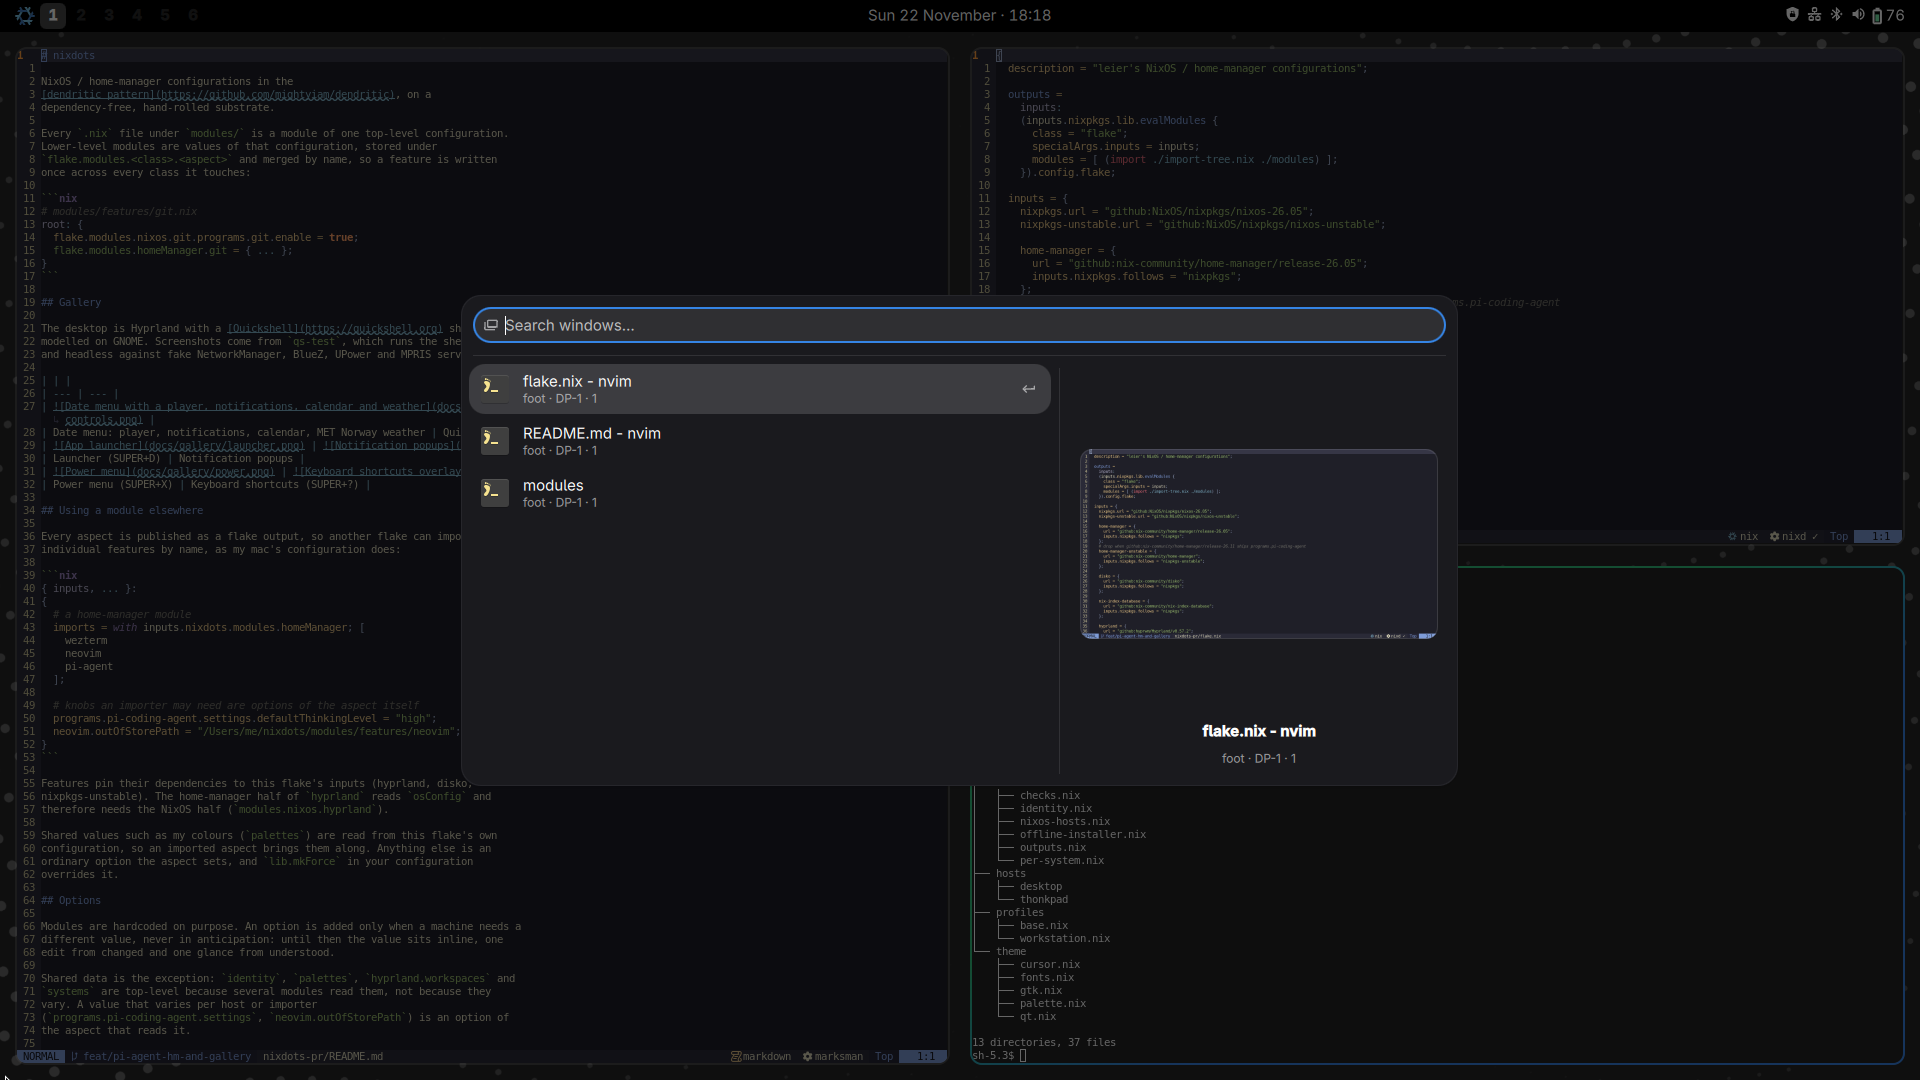
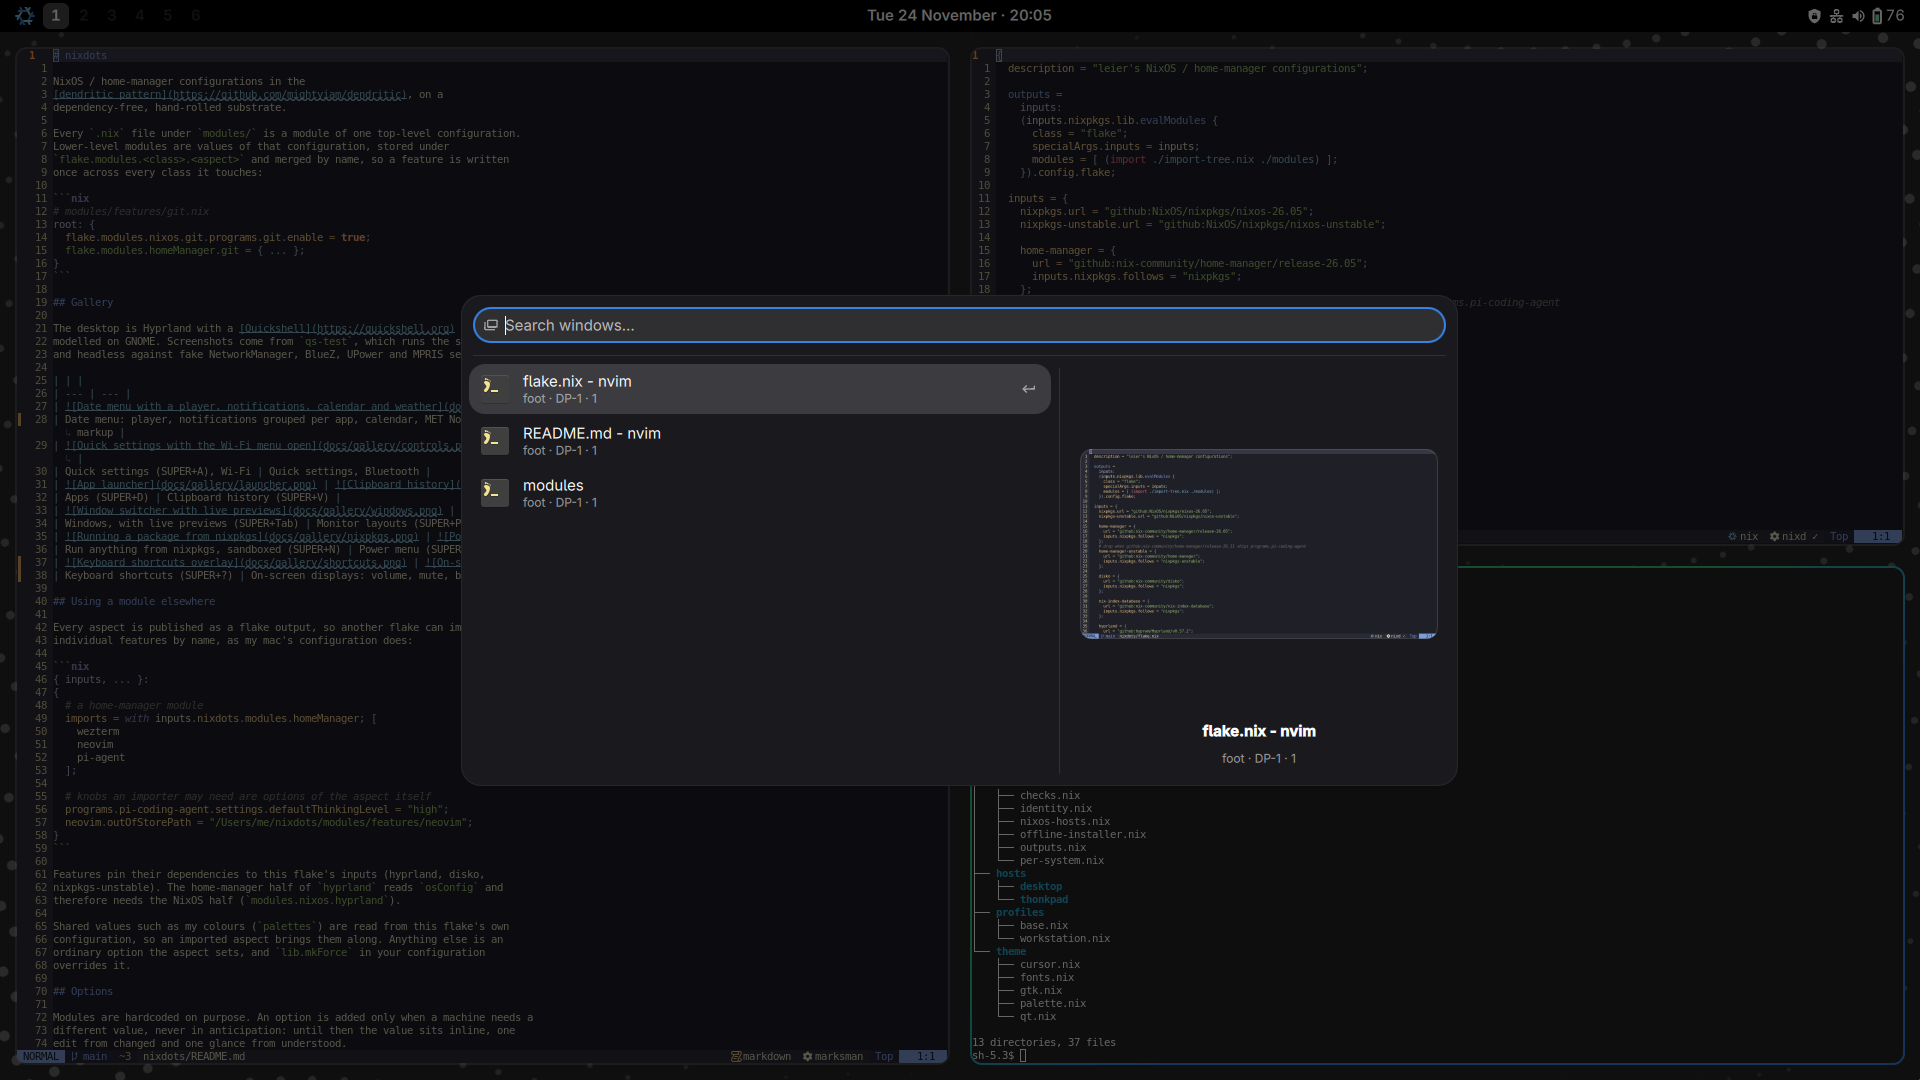
docs: retake the README gallery, add notification variety and OSDs
The date menu now plays Spotify and groups notifications per app; the
popups show a critical one, buttons, a progress bar, a picture with its
badge and markup. A new tile gathers the on-screen displays: volume,
mute, brightness, microphone, Caps Lock and an output switch.

diff --git a/README.md b/README.md
@@ -26,7 +26,7 @@ and headless against fake NetworkManager, BlueZ, UPower and MPRIS services.
 | | |
 | --- | --- |
 | ![Date menu with a player, notifications, calendar and weather](docs/gallery/center.png) | ![Notification popups](docs/gallery/notifications.png) |
-| Date menu: player, notifications, calendar, MET Norway weather | Notification popups |
+| Date menu: player, notifications grouped per app, calendar, MET Norway weather | Notification popups: critical, buttons, progress, pictures, markup |
 | ![Quick settings with the Wi-Fi menu open](docs/gallery/controls.png) | ![Quick settings with the Bluetooth menu open](docs/gallery/bluetooth.png) |
 | Quick settings (SUPER+A), Wi-Fi | Quick settings, Bluetooth |
 | ![App launcher](docs/gallery/launcher.png) | ![Clipboard history](docs/gallery/clipboard.png) |
@@ -35,8 +35,8 @@ and headless against fake NetworkManager, BlueZ, UPower and MPRIS services.
 | Windows, with live previews (SUPER+Tab) | Monitor layouts (SUPER+P) |
 | ![Running a package from nixpkgs](docs/gallery/nixpkgs.png) | ![Power menu](docs/gallery/power.png) |
 | Run anything from nixpkgs, sandboxed (SUPER+N) | Power menu (SUPER+X) |
-| ![Keyboard shortcuts overlay](docs/gallery/shortcuts.png) | |
-| Keyboard shortcuts (SUPER+?) | |
+| ![Keyboard shortcuts overlay](docs/gallery/shortcuts.png) | ![On-screen displays](docs/gallery/osd.png) |
+| Keyboard shortcuts (SUPER+?) | On-screen displays: volume, mute, brightness, microphone, Caps Lock, output |
 
 ## Using a module elsewhere
 
